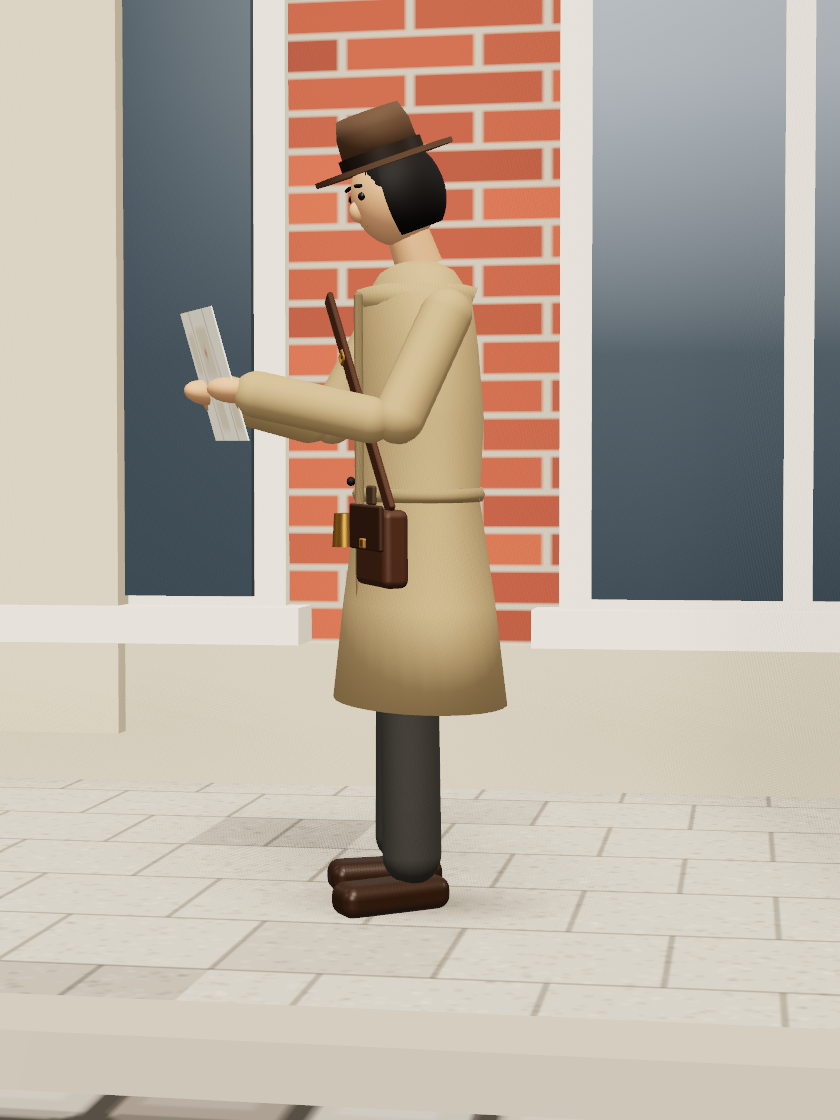
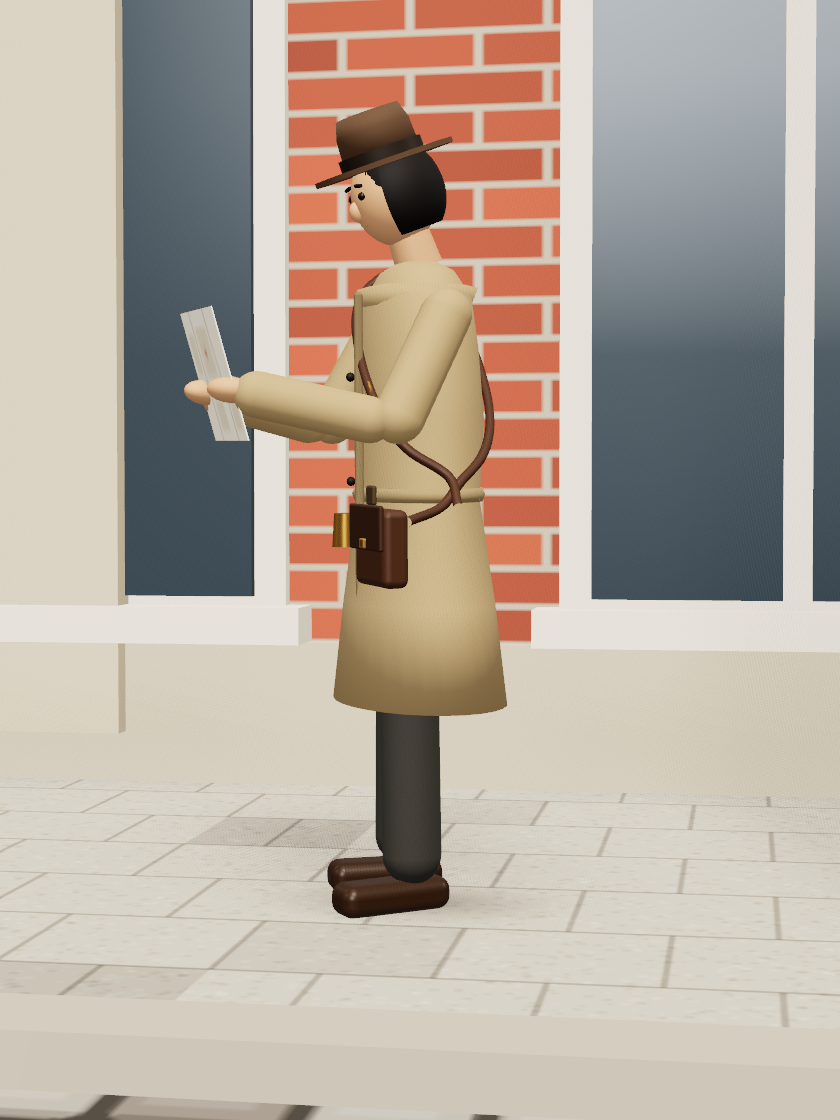
Detective: the satchel strap lies on the coat, over the shoulder and down the back

Changed region(s): [[0.3714, 0.25, 0.5881, 0.4688]]

diff --git a/detective/src/map3d/figure.ts b/detective/src/map3d/figure.ts
@@ -3,7 +3,7 @@
 // scaled to the street (1 unit 0.15 m), so the detective stands as tall as the doors and lamps say a person is.
 // 3 looks for the owner to choose from: `trench` (a woman), `overcoat` (a man with a moustache) and `noir`.
 
-import { BoxGeometry, CanvasTexture, CapsuleGeometry, CylinderGeometry, DoubleSide, Group, LatheGeometry, Mesh, MeshStandardMaterial, SphereGeometry, TorusGeometry, Vector2, Vector3, type BufferGeometry } from 'three';
+import { BoxGeometry, CanvasTexture, CapsuleGeometry, CatmullRomCurve3, CylinderGeometry, DoubleSide, Group, LatheGeometry, Mesh, MeshStandardMaterial, SphereGeometry, TorusGeometry, TubeGeometry, Vector2, Vector3, type BufferGeometry } from 'three';
 import { RoundedBoxGeometry } from 'three/examples/jsm/geometries/RoundedBoxGeometry.js';
 
 export type Look = 'trench' | 'overcoat' | 'noir';
@@ -104,22 +104,33 @@ export function detective(look: Look, pose: Pose = 'stand'): Group {
   }
 
   // The coat: hem at the knee, in at the waist, out over the chest, round the shoulders. Flattened front to back.
-  const body = part(
-    lathe([
-      [0.0, 0.47],
-      [0.27 * hp, 0.47],
-      [0.235 * hp, 0.7],
-      [0.2, 0.94],
-      [0.215, 1.12],
-      [0.225 * sh, 1.28],
-      [0.2 * sh, 1.4],
-      [0.12, 1.46],
-      [0.07, 1.48],
-      [0.0, 1.48],
-    ]),
-    coat,
-  );
-  body.scale.z = 0.66;
+  const profile: Array<[number, number]> = [
+    [0.0, 0.47],
+    [0.27 * hp, 0.47],
+    [0.235 * hp, 0.7],
+    [0.2, 0.94],
+    [0.215, 1.12],
+    [0.225 * sh, 1.28],
+    [0.2 * sh, 1.4],
+    [0.12, 1.46],
+    [0.07, 1.48],
+    [0.0, 1.48],
+  ];
+  const DEPTH = 0.66;
+  const body = part(lathe(profile), coat);
+  body.scale.z = DEPTH;
+  // A point on the coat at a height, a way across and on the front (+1) or back (-1), stood `off` clear of the cloth.
+  const onCoat = (x: number, y: number, face: 1 | -1, off: number): Vector3 => {
+    const pts = profile.slice(1, -1);
+    let r = pts[0]![0];
+    for (let i = 0; i + 1 < pts.length; i++) {
+      const [r0, y0] = pts[i]!;
+      const [r1, y1] = pts[i + 1]!;
+      if (y >= y0 && y <= y1) r = r0 + ((r1 - r0) * (y - y0)) / (y1 - y0);
+    }
+    const z = DEPTH * r * Math.sqrt(Math.max(0, 1 - (x / (r + off)) ** 2));
+    return new Vector3(x, y, face * (z + off));
+  };
   g.add(body);
   // The opening down the front, and the buttons on it.
   const edge = cloth(shade(k.coat, -0.25));
@@ -205,15 +216,21 @@ export function detective(look: Look, pose: Pose = 'stand'): Group {
   g.add(part(new RoundedBoxGeometry(0.205, 0.1, 0.012, 3, 0.006), flapM, bagX, 0.885, 0.2));
   const clasp = new MeshStandardMaterial({ color: '#b98a3c', roughness: 0.3, metalness: 0.8 });
   g.add(part(new RoundedBoxGeometry(0.03, 0.022, 0.01, 2, 0.004), clasp, bagX, 0.85, 0.208));
-  // The strap: from the left shoulder down to the bag's top corner, a finger's width off the coat.
-  const [sx, sy, ex, ey] = [-0.15 * sh, 1.41, bagX + 0.085, 0.92];
-  const len = Math.hypot(ex - sx, ey - sy);
-  const strap = part(new RoundedBoxGeometry(0.038, len, 0.014, 2, 0.006), leather, (sx + ex) / 2, (sy + ey) / 2, 0.172);
-  strap.rotation.z = Math.atan2(ex - sx, -(ey - sy));
+  // The strap lies on the body as a real one does: from the bag up across the chest, over the left shoulder, then
+  // down the back to the right hip and round to the bag again, a few millimetres off the coat all the way.
+  const route: Vector3[] = [];
+  const [bx, by] = [bagX + 0.07, 0.93];
+  const [shx, shy] = [-0.13 * sh, 1.42];
+  for (let i = 0; i <= 8; i++) route.push(onCoat(bx + ((shx - bx) * i) / 8, by + ((shy - by) * i) / 8, 1, 0.012));
+  route.push(new Vector3(shx * 1.05, shy + 0.05, 0.02), new Vector3(shx * 1.05, shy + 0.05, -0.03));
+  for (let i = 8; i >= 0; i--) route.push(onCoat(shx + ((0.22 * hp - shx) * (8 - i)) / 8, shy + ((0.98 - shy) * (8 - i)) / 8, -1, 0.012));
+  route.push(new Vector3(0.245 * hp, 0.93, 0.04), new Vector3(bagX + 0.1, 0.9, 0.14));
+  const curve = new CatmullRomCurve3(route);
+  const strap = part(new TubeGeometry(curve, 120, 0.011, 8, false), leather);
   g.add(strap);
   // A brass buckle on the strap at the chest.
-  const t = 0.3;
-  g.add(part(new TorusGeometry(0.016, 0.0035, 6, 4), clasp, sx + (ex - sx) * t, sy + (ey - sy) * t, 0.182));
+  const bk = curve.getPoint(0.2);
+  g.add(part(new TorusGeometry(0.017, 0.0035, 6, 4), clasp, bk.x, bk.y, bk.z + 0.004));
   // A small brass lantern hooked on the left of the belt.
   const brass = new MeshStandardMaterial({ color: '#b98a3c', roughness: 0.3, metalness: 0.8 });
   g.add(part(new CylinderGeometry(0.03, 0.035, 0.08, 10), brass, -0.2, 0.86, 0.11));
